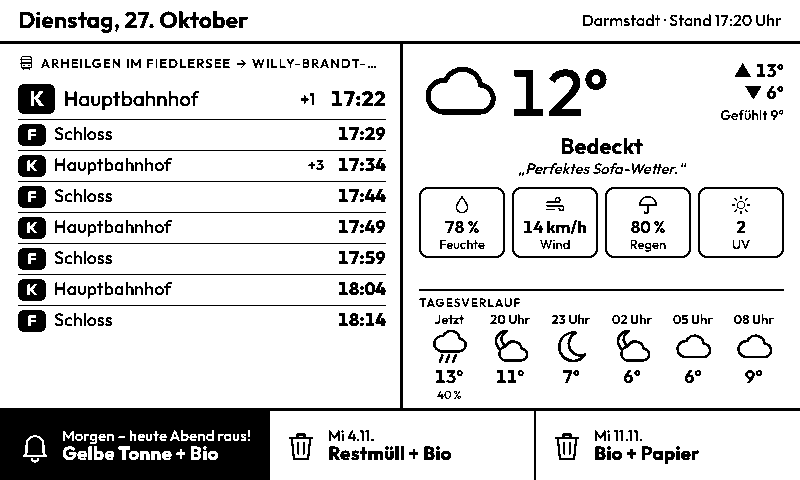
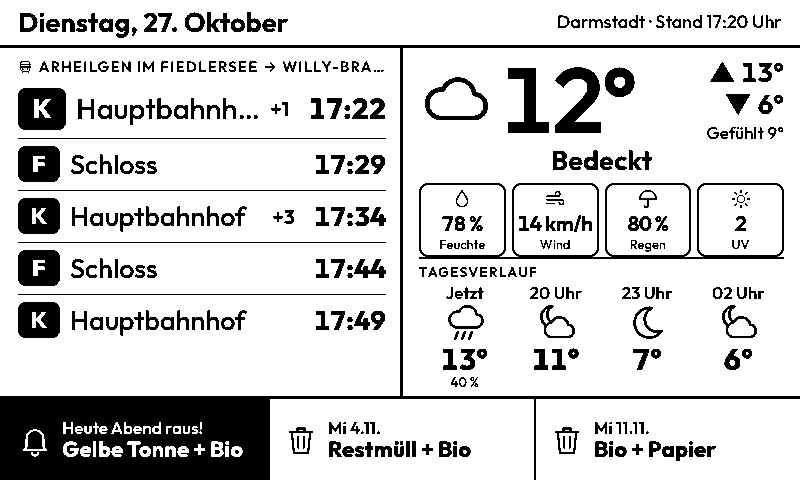
TRMNL Seite 1: Schriftgröße groß (Standard) mit 5 Abfahrten und großen Temperaturen
Neue Einstellung Schriftgröße: groß = weniger Abfahrten, große Zeiten,
Temperaturen und Mülltermine; normal = bisherige Ansicht mit bis zu 9
Abfahrten. Haltestellenname auch bei Nummer ohne RMV-Schlüssel.

Claude-Session: https://claude.ai/code/session_01PVUntCU1XoYrdwzgp5Vrbk

Changed region(s): [[0.0, 0.0, 1.0, 0.7188], [0.0, 0.5312, 1.0, 0.9688]]

diff --git a/trmnl/vorschau/sample.py b/trmnl/vorschau/sample.py
@@ -54,7 +54,7 @@ for i, (d, line, dest, delay) in enumerate(plan):
                  "train_type": "", "train_line": line, "train_no": str(4100 + i), "via": ["Darmstadt Willy-Brandt-Platz"],
                  "destination": dest, "origin": dest, "platform": None, "scheduled_platform": None,
                  "is_cancelled": 1 if (szen == "ausfall" and i == 3) else 0, "delay": delay, "is_delayed": 1 if delay >= 5 else 0,
-                 "has_realtime": 1, "station": "Im Fiedlersee, Darmstadt", "linetype": "bus"})
+                 "has_realtime": 1, "station": "Darmstadt-Arheilgen Im Fiedlersee", "linetype": "bus"})
 abfahrten = {"departures": deps}
 if szen == "rmv":
     rd = []

diff --git a/trmnl/README.md b/trmnl/README.md
@@ -41,6 +41,7 @@ Beide Seiten gibt es auch in den kleineren Größen für Mashups (halb waagrecht
 | Verkehrsverbund | Nur ohne Schlüssel: RMV für Darmstadt. Weitere zur Auswahl. |
 | Ortsname, Breiten- und Längengrad | Für das Wetter. Nachschlagen auf [open-meteo.com](https://open-meteo.com/en/docs) (oben Ort suchen) oder [latlong.net](https://www.latlong.net/) (auf die Karte klicken). Dezimalgrad mit Punkt, z. B. `49.87`. |
 | Straße für den Müllkalender | Straßenname wie im [EAD-Abfallkalender](https://www.ead.darmstadt.de/unser-angebot/privathaushalte/abfallkalender), **ohne Hausnummer**. Bei Straßen, die der EAD aufteilt, den Abschnitt mitschreiben, z. B. `Heinheimer Straße 1-15, 2-16`. Leer = keine Müll-Leiste. |
+| Schriftgröße | **Groß** (Standard): 5 Abfahrten, große Temperaturen und Schrift, aus der Ferne lesbar. **Normal**: bis zu 9 Abfahrten, 6 Zeitpunkte im Tagesverlauf und Wetterspruch, die frühere Ansicht ([Bild](docs/seite1-normal.png)). |
 | Müll-Erinnerung ab | Uhrzeit am Vorabend, ab der der Termin hervorgehoben wird (15–20 Uhr). |
 | Wetterspruch | Ein Spruch pro Tag wie auf der CYD. Auf Seite 1 und 2 abschaltbar. |
 
